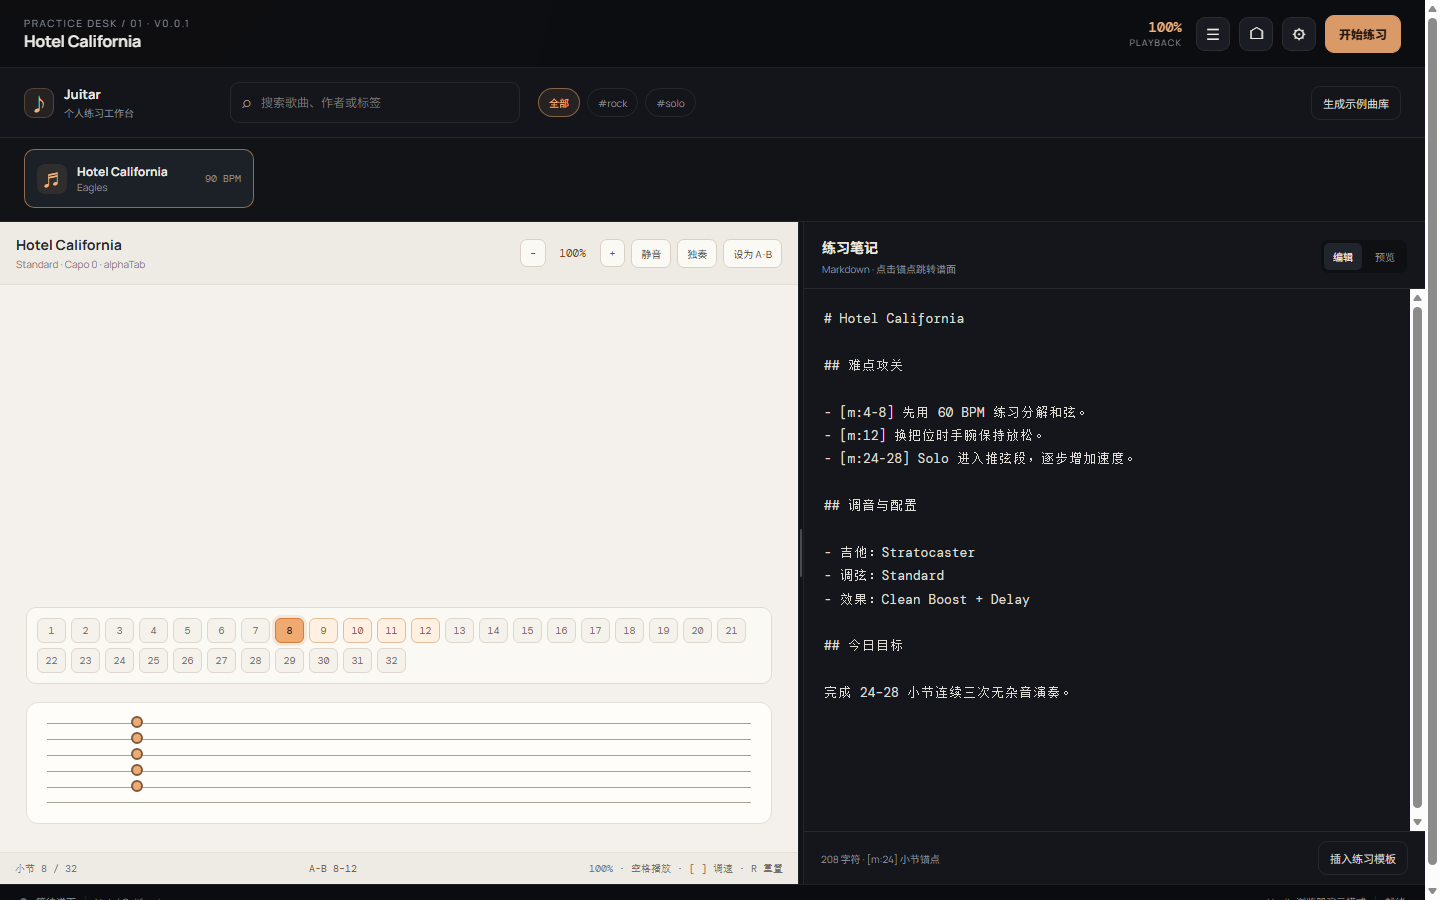
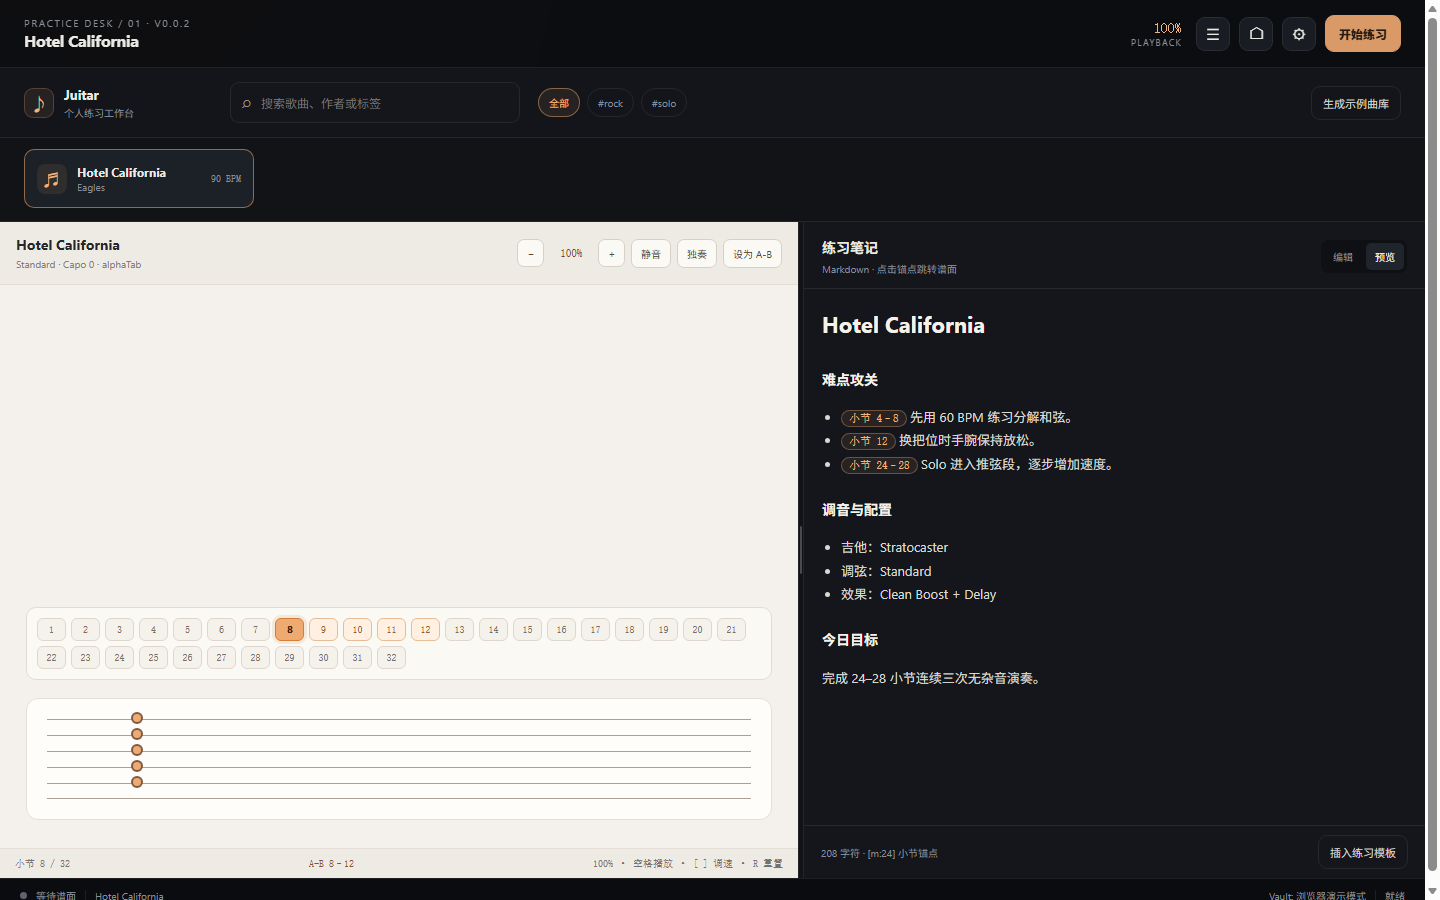
feat: add practice speed presets and anchor preview flow

diff --git a/src/stores/scoreStore.ts b/src/stores/scoreStore.ts
@@ -16,8 +16,13 @@ export const useScoreStore = defineStore('score', () => {
   function togglePlayback() { isPlaying.value = !isPlaying.value; scoreApi.value?.playPause?.() }
   function setPlaying(value: boolean) { isPlaying.value = value }
   function changeSpeed(delta: number) { speed.value = Math.min(150, Math.max(50, speed.value + delta)) }
+  function setSpeed(value: number) { speed.value = Math.min(150, Math.max(50, value)) }
+  function cyclePracticeSpeed() {
+    const presets = [70, 80, 100]
+    setSpeed(presets[(presets.indexOf(speed.value) + 1) % presets.length] ?? 70)
+  }
   function jumpToMeasure(measure: number, end?: number) { currentMeasure.value = measure; loop.value = end ? { start: measure, end } : loop.value; scoreApi.value?.scrollToMeasure?.(measure) }
   function setLoop(start: number, end: number) { loop.value = { start: Math.min(start, end), end: Math.max(start, end) }; currentMeasure.value = loop.value.start }
   function resetLoop() { currentMeasure.value = loop.value?.start || 1; scoreApi.value?.stop?.(); isPlaying.value = false; scoreApi.value?.scrollToMeasure?.(currentMeasure.value) }
-  return { currentSong, isPlaying, speed, speedLabel, currentMeasure, loop, isReady, openSong, setApi, togglePlayback, setPlaying, changeSpeed, jumpToMeasure, setLoop, resetLoop }
+  return { currentSong, isPlaying, speed, speedLabel, currentMeasure, loop, isReady, openSong, setApi, togglePlayback, setPlaying, changeSpeed, setSpeed, cyclePracticeSpeed, jumpToMeasure, setLoop, resetLoop }
 })

diff --git a/src/App.vue b/src/App.vue
@@ -85,7 +85,7 @@ onUnmounted(() => {
     <nav v-if="isMobile" class="mobile-touchbar" aria-label="练习控制">
       <button class="touchbar-secondary" @click="scoreStore.resetLoop"><span>↺</span><small>回到循环</small></button>
       <button class="touchbar-play" :class="{ playing: scoreStore.isPlaying }" @click="scoreStore.togglePlayback"><span>{{ scoreStore.isPlaying ? 'Ⅱ' : '▶' }}</span></button>
-      <button class="touchbar-secondary" @click="scoreStore.changeSpeed(-5)"><span>{{ scoreStore.speed }}%</span><small>速度</small></button>
+      <button class="touchbar-secondary" @click="scoreStore.cyclePracticeSpeed"><span>{{ scoreStore.speed }}%</span><small>速度预设</small></button>
       <button class="touchbar-secondary" @click="scoreStore.setLoop(scoreStore.currentMeasure, scoreStore.currentMeasure + 4)"><span>A—B</span><small>循环</small></button>
     </nav>
     <footer class="status-bar">

diff --git a/src/stores/scoreStore.test.ts b/src/stores/scoreStore.test.ts
@@ -1,0 +1,25 @@
+import { beforeEach, describe, expect, it } from 'vitest'
+import { createPinia, setActivePinia } from 'pinia'
+import { useScoreStore } from './scoreStore'
+
+describe('score practice presets', () => {
+  beforeEach(() => setActivePinia(createPinia()))
+
+  it('cycles through 70, 80 and 100 percent presets', () => {
+    const store = useScoreStore()
+    store.setSpeed(70)
+    store.cyclePracticeSpeed()
+    expect(store.speed).toBe(80)
+    store.cyclePracticeSpeed()
+    expect(store.speed).toBe(100)
+    store.cyclePracticeSpeed()
+    expect(store.speed).toBe(70)
+  })
+
+  it('keeps loop endpoints ordered when an anchor is selected', () => {
+    const store = useScoreStore()
+    store.setLoop(12, 8)
+    expect(store.loop).toEqual({ start: 8, end: 12 })
+    expect(store.currentMeasure).toBe(8)
+  })
+})

diff --git a/src/components/TopBar.vue b/src/components/TopBar.vue
@@ -18,7 +18,7 @@ async function openVault() {
 
 <template>
   <header class="top-bar">
-    <div class="top-title"><div><div class="eyebrow">PRACTICE DESK / 01 · v0.0.1</div><h1>{{ title }}</h1></div></div>
+    <div class="top-title"><div><div class="eyebrow">PRACTICE DESK / 01 · v0.0.2</div><h1>{{ title }}</h1></div></div>
     <div class="top-actions">
       <div class="top-stat"><strong>{{ scoreStore.speed }}%</strong><span>PLAYBACK</span></div>
       <button class="icon-button library-toggle" title="打开曲库" @click="emit('toggle-library')">☰</button>

diff --git a/src/components/NoteEditor.vue b/src/components/NoteEditor.vue
@@ -11,7 +11,7 @@ import { useScoreStore } from '../stores/scoreStore'
 const appStore = useAppStore()
 const libraryStore = useLibraryStore()
 const scoreStore = useScoreStore()
-const mode = ref<'edit' | 'preview'>('edit')
+const mode = ref<'edit' | 'preview'>(new URLSearchParams(window.location.search).get('showcase') === 'anchor' ? 'preview' : 'edit')
 const localContent = ref('')
 const saveTimer = ref<number | undefined>(undefined)
 const currentSong = ref<Song | null>(null)

diff --git a/PRODUCT_SHOWCASE.md b/PRODUCT_SHOWCASE.md
@@ -1,6 +1,6 @@
 # Juitar 产品视觉与功能验收手册
 
-> 当前基线：`v0.0.1` · Vue 3 + TypeScript + Tauri + Rust + alphaTab
+> 当前基线：`v0.0.2` · Vue 3 + TypeScript + Tauri + Rust + alphaTab
 
 ## 1. 产品设计美学
 
@@ -61,7 +61,7 @@ Juitar 的工作台采用深色音乐工作室风格：底层使用 `#0D0E11`，
 
 ## 4. 已执行验证
 
-- `npm run test`：2 个测试文件、6 个测试通过。
+- `npm run test`：3 个测试文件、8 个测试通过。
 - `npm run build`：Vue 类型检查与 Vite 生产构建通过。
 - 本地浏览器真实渲染截图：桌面 1440×900、竖屏 393×873、横屏 873×393。
 - 锚点状态截图：`?showcase=anchor` 进入 8–12 循环状态。
@@ -72,7 +72,8 @@ Juitar 的工作台采用深色音乐工作室风格：底层使用 `#0D0E11`，
 
 | 版本 | Commit | 摘要 |
 |---|---|---|
-| v0.0.1 | 工作区当前提交 | 统一版本基线；建立深色设计系统；加入响应式工作台、移动 Touch Bar、曲库抽屉和截图验收资产。 |
+| v0.0.1 | `d4aab2f` | 统一版本基线；建立深色设计系统；加入响应式工作台、移动 Touch Bar、曲库抽屉和截图验收资产。 |
+| v0.0.2 | 待提交 | 增加 70% / 80% / 100% 练习速度预设；锚点验收进入真实 Markdown 预览；补齐多首 MusicXML 实战夹具。 |
 
 ## 6. 交付路径
 
